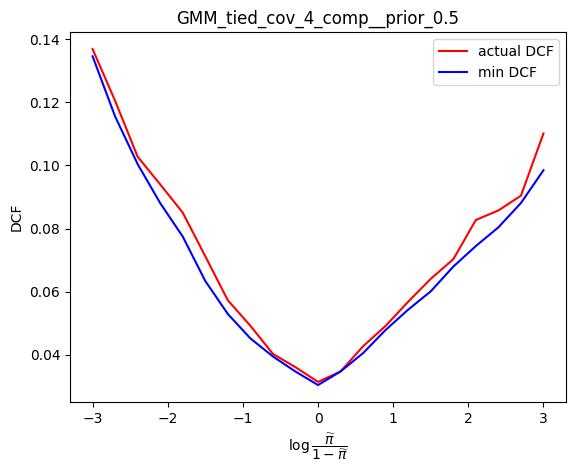
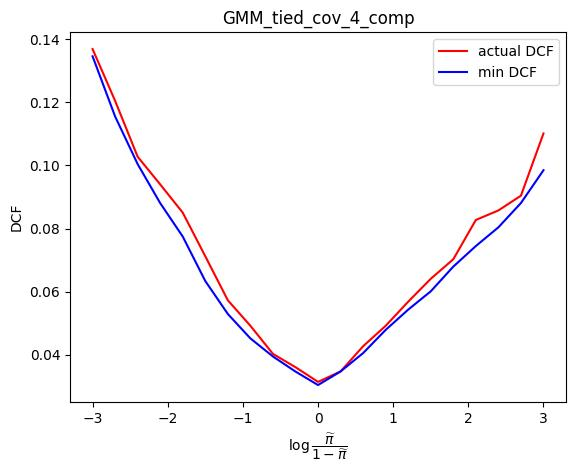
before score calibration of svm

Changed region(s): [[0.3125, 0.0, 0.8125, 0.0593]]

diff --git a/app/core/main.py b/app/core/main.py
@@ -387,7 +387,7 @@ def actual_dcf(D, L, application_priors, nr_kfold_split, cfp, cfn):
             rebalanced=True, 
             pi_T=PI_T,
             actual_dcf=True,
-            model_name_error_plot=f'LINEAR_SVM_C_{C}_piT_{PI_T}',
+            model_name_error_plot=f'LINEAR_SVM_C_{C}',
         )
         print(f"min DCF LINEAR SVM with prior={PRIOR:.1f} and C={C}:  {min_dcf_linsvm:.3f}")
         print(f"act DCF LINEAR SVM with prior={PRIOR:.1f} and C={C}:  {act_dcf_linsvm:.3f}\n") 
